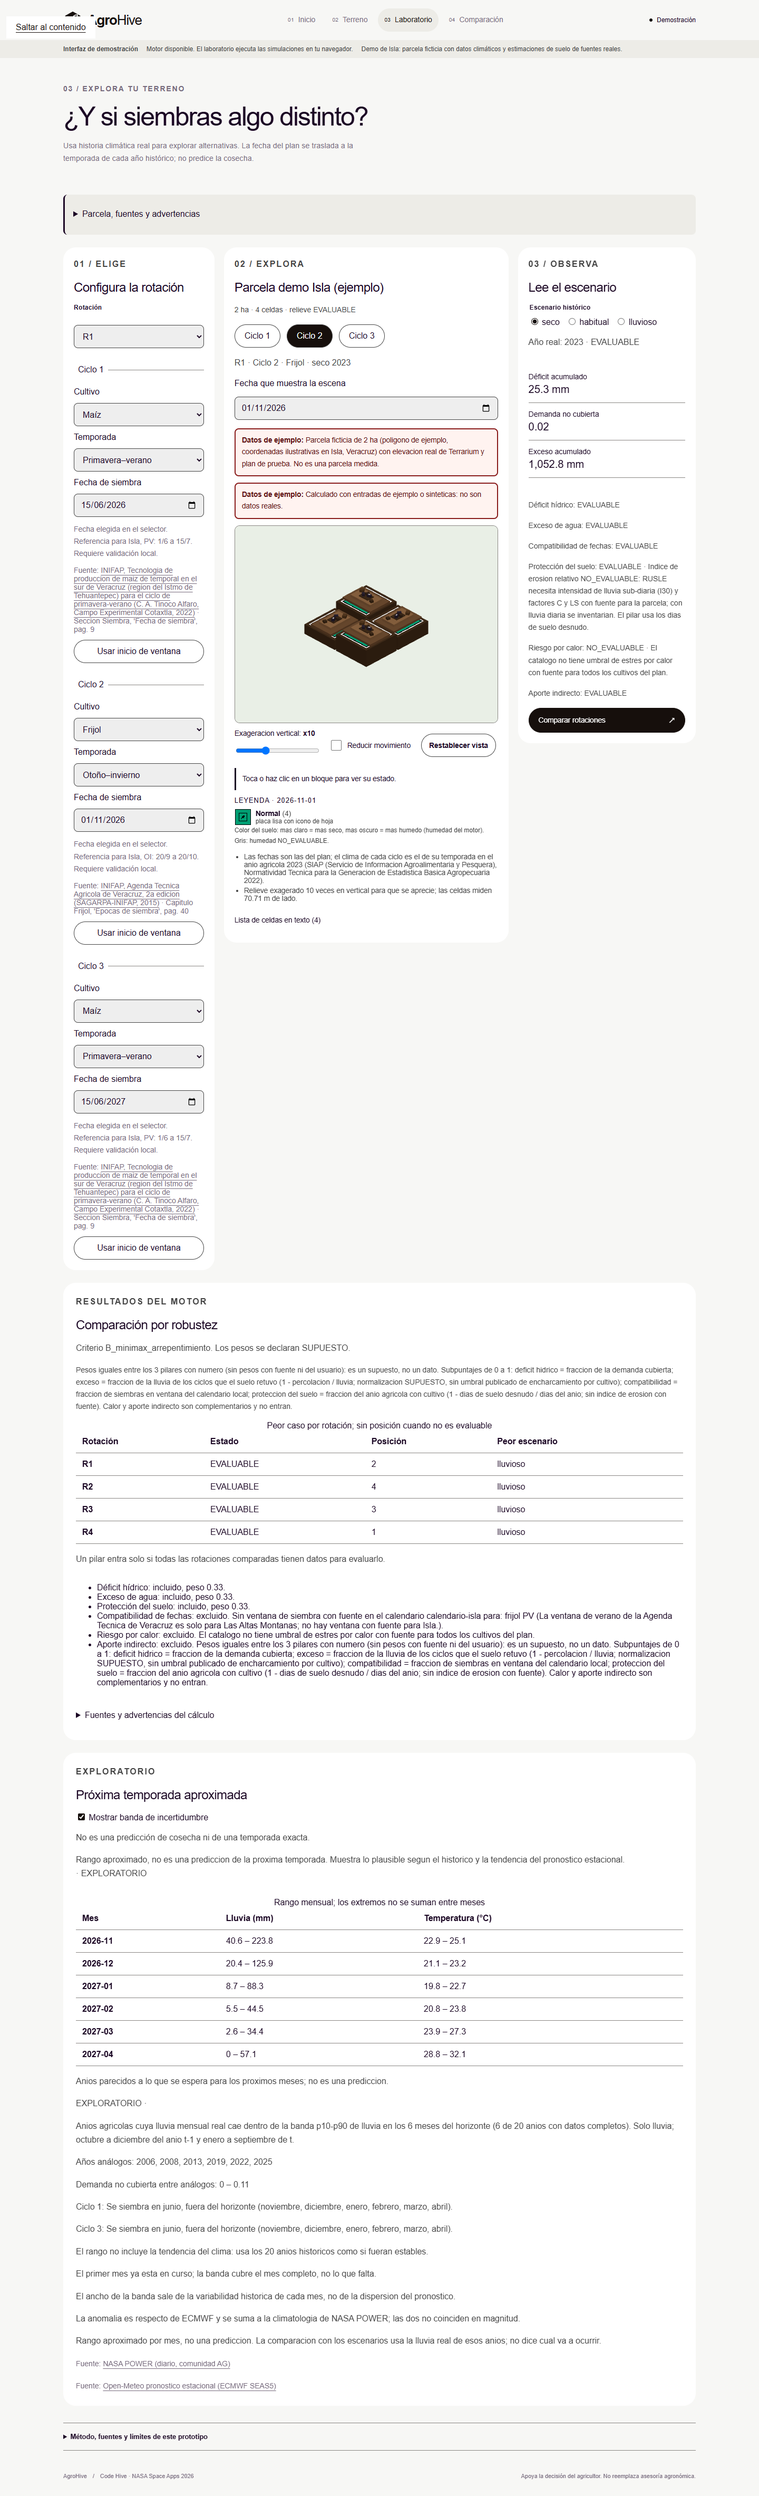
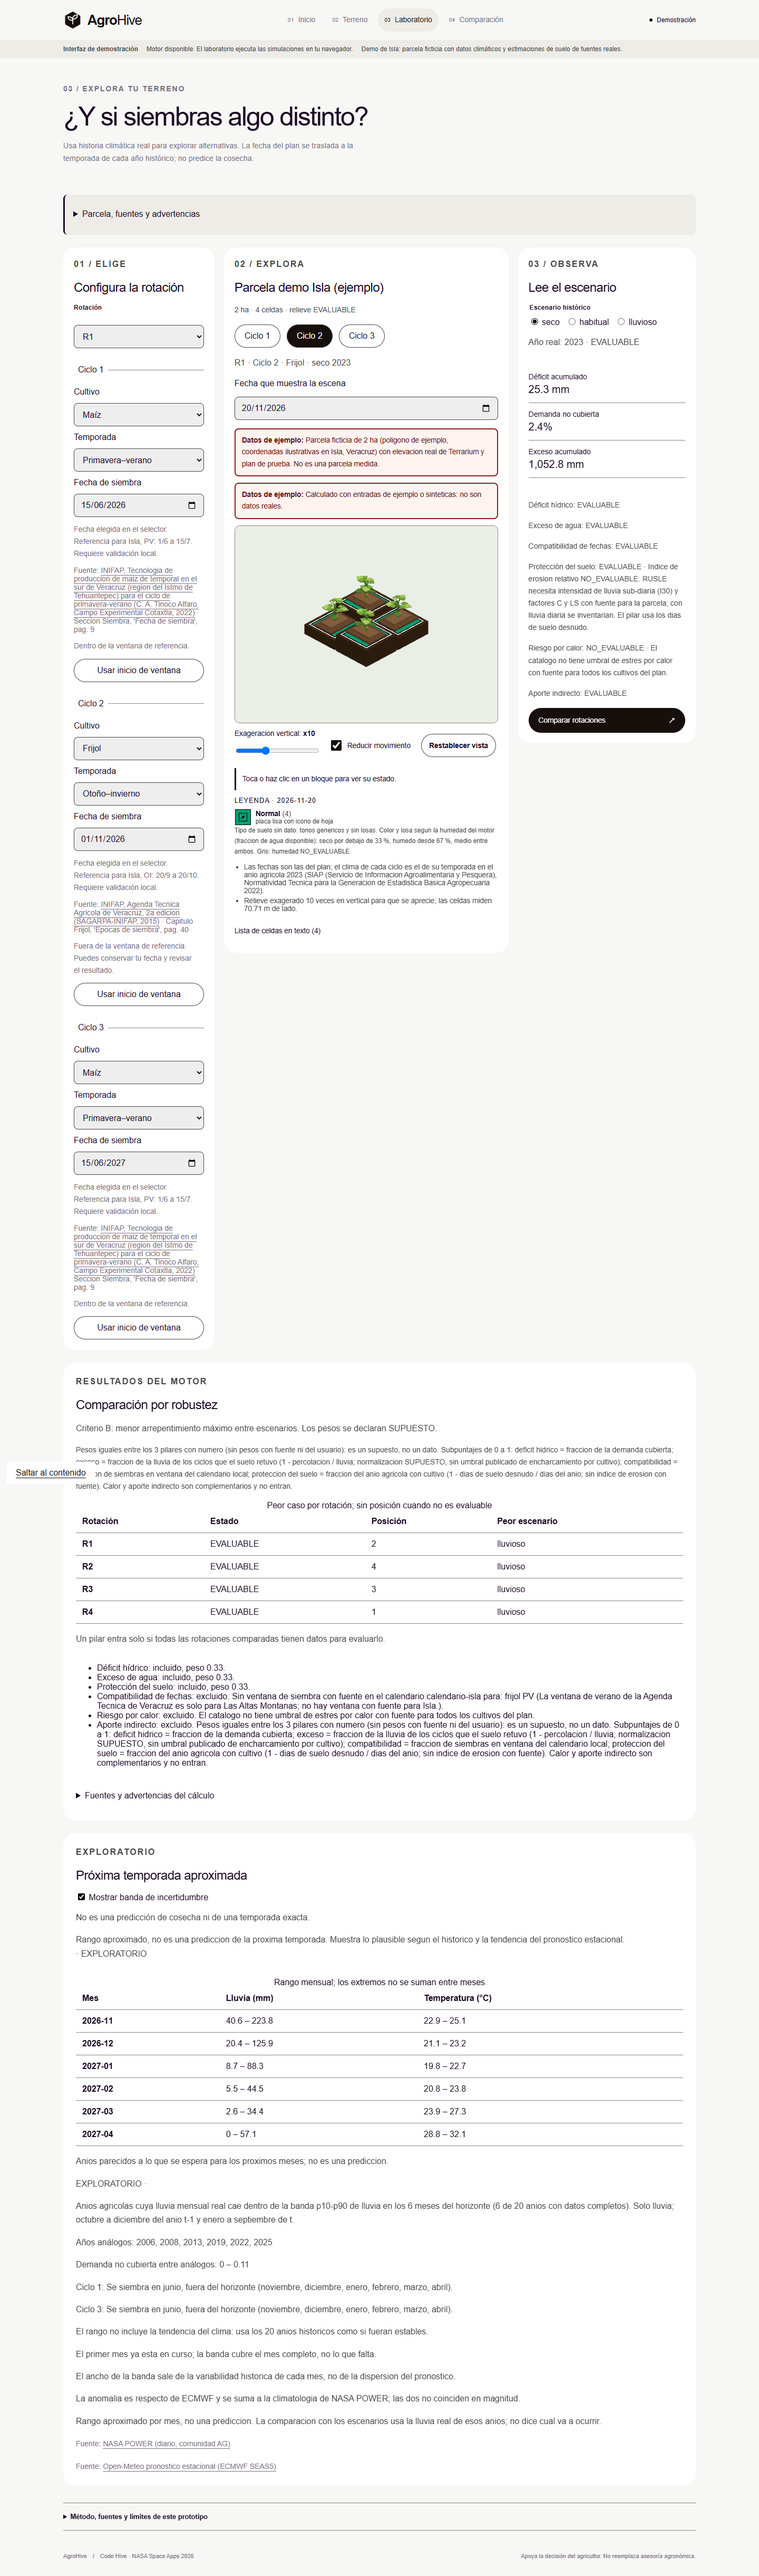
polish(web): presentar porcentajes y renovar evidencia del laboratorio

Changed region(s): [[0.0938, 0.0, 0.875, 0.9941], [0.3125, 0.0932, 0.6562, 0.3728], [0.6875, 0.0932, 0.9062, 0.3107]]

diff --git a/web/src/ui/LaboratorioConectado.tsx b/web/src/ui/LaboratorioConectado.tsx
@@ -12,6 +12,7 @@ export function FuenteVisible({ fuente }: { fuente: Fuente }) {
   return <span className="quiet-note">Fuente: {fuente.url ? <a href={fuente.url} target="_blank" rel="noreferrer">{fuente.nombre}</a> : fuente.nombre}{fuente.cita ? ` · ${fuente.cita}` : ''}</span>;
 }
 const numero = (n: number | null | undefined, unidad = '') => n == null ? 'NO_EVALUABLE' : `${n.toLocaleString('es-MX', { maximumFractionDigits: 2 })}${unidad}`;
+const porcentaje = (n: number | null | undefined) => n == null ? 'NO_EVALUABLE' : new Intl.NumberFormat('es-MX', { style: 'percent', maximumFractionDigits: 1 }).format(n);
 
 export function LaboratorioConectado({ estado, comparacion = false }: { estado: LaboratorioEstado; comparacion?: boolean }) {
   const { rotacion, setRotacion, ciclo, setCiclo, escenario, setEscenario, fechaElegida, setFecha, mostrarBanda, setMostrarBanda } = estado.seleccion;
@@ -74,7 +75,7 @@ export function LaboratorioConectado({ estado, comparacion = false }: { estado: 
       <Card title="Lee el escenario" eyebrow="03 / Observa">
         <fieldset className="choice-group"><legend>Escenario histórico</legend><div className="ui-actions">{escenarios.map((e) => <label key={e}><input type="radio" name="escenario-real" value={e} checked={e === escenario} onChange={() => setEscenario(e)} /> {e}</label>)}</div></fieldset>
         <p className="numeric">Año real: {metricas?.anioReal ?? 'NO_EVALUABLE'} · {metricas?.estado ?? 'Calculando'}</p>
-        <dl className="metrics-list"><div><dt>Déficit acumulado</dt><dd>{numero(metricas?.pilares.deficitHidrico.deficitTotalMm, ' mm')}</dd></div><div><dt>Demanda no cubierta</dt><dd>{numero(metricas?.pilares.deficitHidrico.proporcionDemandaNoCubierta)}</dd></div><div><dt>Exceso acumulado</dt><dd>{numero(metricas?.pilares.excesoHidrico?.excesoTotalMm, ' mm')}</dd></div></dl>
+        <dl className="metrics-list"><div><dt>Déficit acumulado</dt><dd>{numero(metricas?.pilares.deficitHidrico.deficitTotalMm, ' mm')}</dd></div><div><dt>Demanda no cubierta</dt><dd>{porcentaje(metricas?.pilares.deficitHidrico.proporcionDemandaNoCubierta)}</dd></div><div><dt>Exceso acumulado</dt><dd>{numero(metricas?.pilares.excesoHidrico?.excesoTotalMm, ' mm')}</dd></div></dl>
         {metricas && Object.entries(metricas.pilares).map(([id, p]) => <p className="quiet-note" key={id}>{pilares[id] ?? id}: {p.estado}{p.motivo ? ` · ${p.motivo}` : ''}</p>)}
         {resultado?.cultivosNoRecomendados?.map((c) => <div className="ui-warning" key={c.cultivo}><strong>{nombresCultivos[c.cultivo] ?? c.cultivo}: no recomendado aquí</strong><p>{c.motivo}</p><FuenteVisible fuente={c.fuente} /></div>)}
         <ActionLink href="#/comparacion">Comparar rotaciones</ActionLink>
@@ -83,7 +84,7 @@ export function LaboratorioConectado({ estado, comparacion = false }: { estado: 
     {estado.error && <><DataState state="error">{estado.error}</DataState><button className="ui-action" onClick={estado.reintentar}>Reintentar cálculo</button></>}
     {!estado.calculo && !estado.error && <DataState state="loading">Calculando planes en el motor. Los resultados anteriores están invalidados.</DataState>}
     {ranking && <Card title="Comparación por robustez" eyebrow="Resultados del motor">
-      <p>{ranking.mensaje ?? `Criterio ${ranking.criterio ?? 'sin ranking evaluable'}. Los pesos se declaran ${ranking.ponderacion?.etiqueta ?? 'sin ponderación'}.`}</p>
+      <p>{ranking.mensaje ?? `${ranking.criterio?.startsWith('B') ? 'Criterio B: menor arrepentimiento máximo entre escenarios' : ranking.criterio ? 'Criterio A: menor déficit en el peor escenario' : 'Sin ranking evaluable'}. Los pesos se declaran ${ranking.ponderacion?.etiqueta ?? 'sin ponderación'}.`}</p>
       <p className="quiet-note">{ranking.ponderacion?.nota}</p>
       <div className="ui-table-wrap" role="region" aria-label="Resultados de las rotaciones" tabIndex={0}><table><caption>Peor caso por rotación; sin posición cuando no es evaluable</caption><thead><tr><th>Rotación</th><th>Estado</th><th>Posición</th><th>Peor escenario</th></tr></thead><tbody>{ranking.rotaciones.map((r) => <tr key={r.rotacionId}><th scope="row">{r.rotacionId}</th><td>{r.estado}</td><td>{r.ranking?.posicion ?? 'Sin ranking'}</td><td>{r.peorCaso?.escenario ?? 'NO_EVALUABLE'}</td></tr>)}</tbody></table></div>
       <p>Un pilar entra solo si todas las rotaciones comparadas tienen datos para evaluarlo.</p>
